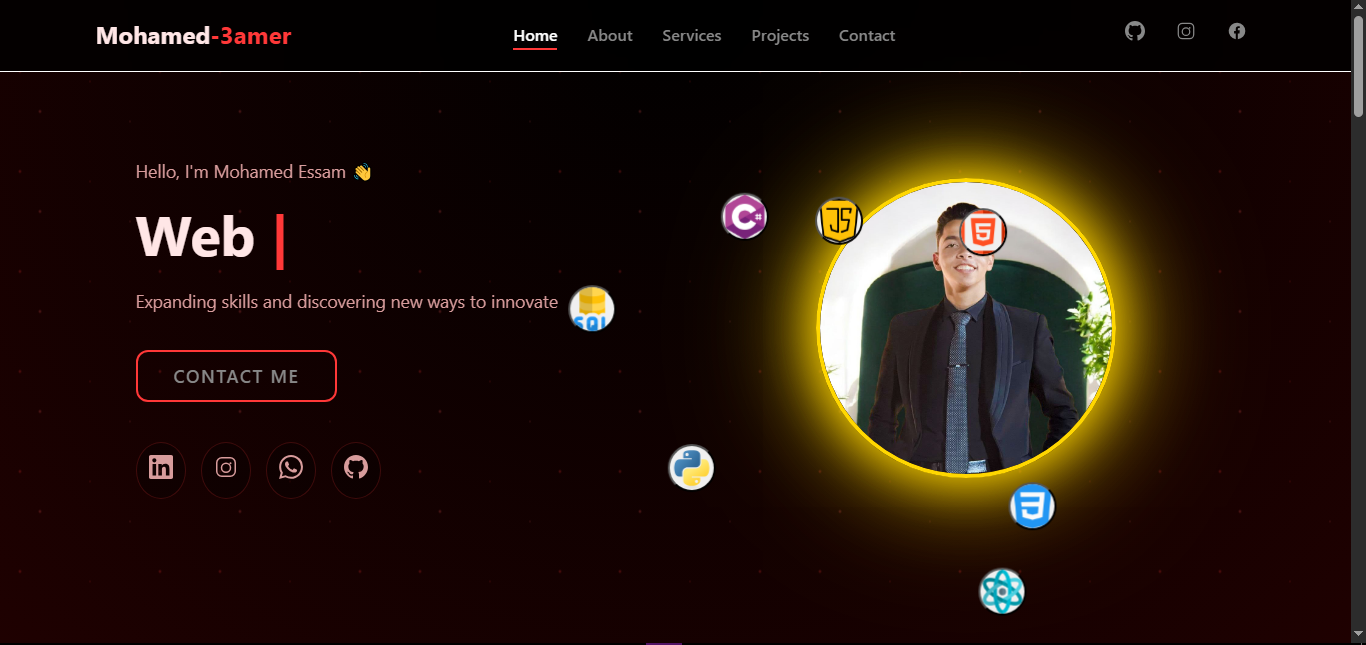
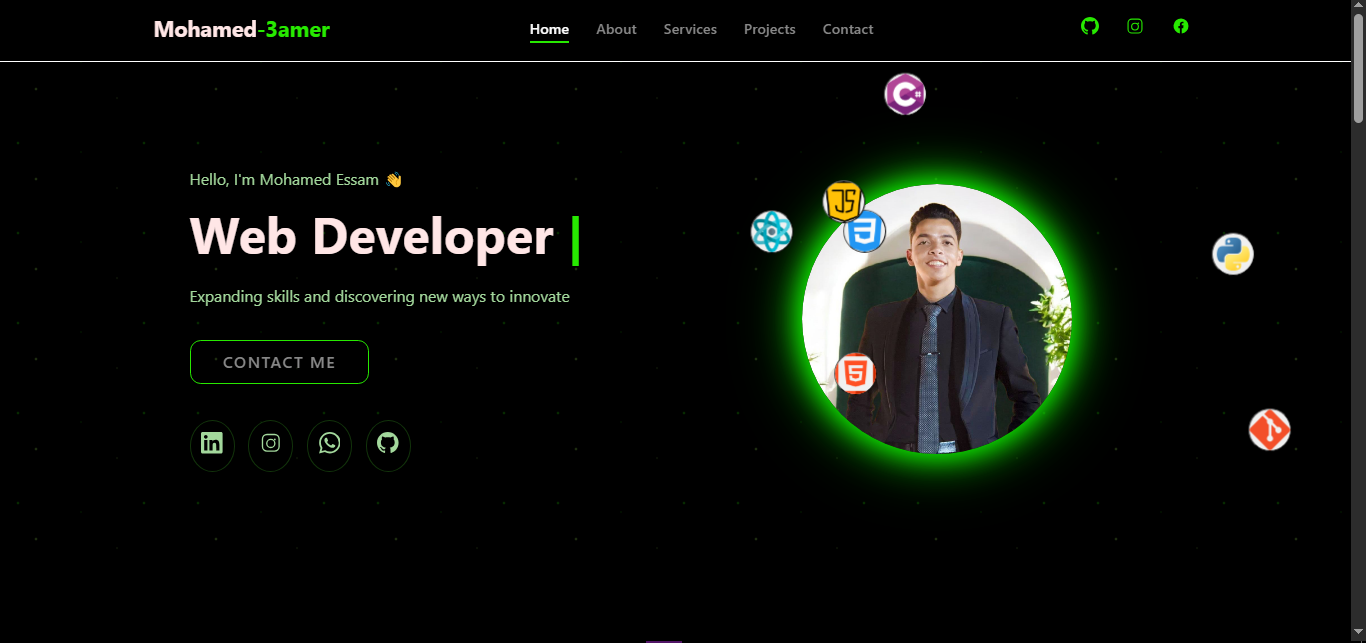
Add files via upload

diff --git a/style.css b/style.css
@@ -1,14 +1,14 @@
 @import url('https://fonts.googleapis.com/css?family=Muli&display=swap');
 :root {
-  --bg-1: #1f0101;
+  --bg-1: #000000;
   --bg-2: #000000;
   --text: #FFE6E6;
-  --muted: #D89C9C;
-  --accent: #FF3838;
-  --accent-2: #FF5C5C;
-  --card: #3b0202;
+  --muted: #a3d89c;
+  --accent: #27e900;
+  --accent-2: #abff5c;
+  --card: #0b3b02;
   --card-2: #ffffff;
-  --shadow: 0 10px 30px rgba(255, 56, 56, 0.15);
+  --shadow: 0 10px 30px rgba(136, 255, 56, 0.15);
 }
 
 * {
@@ -171,7 +171,7 @@ body::after {
 }
 
 .social-icon {
-  color: #888888; /* grey color for non-hover state */
+  color: #27e900; /* grey color for non-hover state */
   transition: all 0.3s ease;
   padding: 8px;
   border-radius: 50%;
@@ -180,7 +180,7 @@ body::after {
 .social-icon:hover {
   color: white;
   transform: scale(1.1);
-  box-shadow: 0 0 15px rgba(255, 255, 255, 0.3);
+  box-shadow: 0 0 15px rgba(9, 255, 0, 0.788);
 }
 
 .hamburger {
@@ -302,19 +302,19 @@ body::after {
 
 /* Matahari (Sun) - Elemento visual */
 .sun-core {
-  width: 300px; /* 40% larger than 120px */
-  height: 300px; /* 40% larger than 120px */
+  width: 60%; /* 40% larger than 120px */
+  height: 60%; /* 40% larger than 120px */
   border-radius: 50%;
   position: absolute;
   top: 50%;
   left: 50%;
   transform: translate(-50%, -50%);
-  border: 4px solid #FFD700;
+  /* border: 5px solid #27e900; */
   box-shadow:
-    0 0 40px rgba(255, 215, 0, 0.8),
-    0 0 80px rgba(255, 215, 0, 0.5),
-    0 0 120px rgba(255, 215, 0, 0.3),
-    inset 0 0 30px rgba(255, 215, 0, 0.4);
+      0 0 20px rgba(102, 255, 0, 0.8),
+      0 0 50px rgba(21, 255, 0, 0.5),
+      0 0 80px rgba(9, 255, 0, 0.3),
+      inset 0 0 30px rgba(21, 255, 0, 0.4);
   animation: sunGlow 3s ease-in-out infinite alternate;
   cursor: pointer;
   transition: transform 0.3s ease;
@@ -356,25 +356,25 @@ body::after {
 }
 
 .orbit-icon:hover {
-  background: rgba(255, 56, 56, 0.4);
+  background: rgba(96, 255, 56, 0.4);
   transform: scale(1.2);
-  box-shadow: 0 0 10px rgba(255, 56, 56, 0.5);
+  box-shadow: 0 0 10px rgba(96, 255, 56, 0.5);
 }
 
 @keyframes sunGlow {
   0% {
     box-shadow:
-      0 0 40px rgba(255, 215, 0, 0.8),
-      0 0 80px rgba(255, 215, 0, 0.5),
-      0 0 120px rgba(255, 215, 0, 0.3),
-      inset 0 0 30px rgba(255, 215, 0, 0.4);
+      0 0 20px rgba(0, 255, 0, 0.8),
+      0 0 50px rgba(21, 255, 0, 0.5),
+      0 0 80px rgba(30, 255, 0, 0.3),
+      inset 0 0 30px rgba(9, 255, 0, 0.4);
   }
   100% {
     box-shadow:
-      0 0 50px rgba(255, 215, 0, 1),
-      0 0 100px rgba(255, 215, 0, 0.7),
-      0 0 150px rgba(255, 215, 0, 0.4),
-      inset 0 0 40px rgba(255, 215, 0, 0.6);
+      0 0 30px rgb(9, 255, 0),
+      0 0 50px rgba(43, 255, 0, 0.7),
+      0 0 80px rgba(9, 255, 0, 0.4),
+      inset 0 0 40px rgba(30, 255, 0, 0.6);
   }
 }
 
@@ -499,7 +499,7 @@ body::after {
   left: -100%;
   width: 100%;
   height: 100%;
-  background: linear-gradient(45deg, var(--accent), var(--accent-2), #FF7F7F, #FF3838);
+  background: linear-gradient(45deg, var(--accent), var(--accent-2), #5ef837, #17ff02);
   background-size: 400% 400%;
   animation: glowGradient 4s ease infinite;
   opacity: 0;
@@ -509,7 +509,7 @@ body::after {
 .glow-genz-button:hover {
   color: white;
   border-color: var(--accent-2);
-  box-shadow: 0 0 25px rgba(255, 56, 56, 1), 0 0 50px rgba(255, 92, 92, 0.8);
+  box-shadow: 0 0 25px rgb(89, 255, 56), 0 0 50px rgba(119, 255, 92, 0.8);
   transform: scale(1.05);
 }
 
@@ -785,12 +785,12 @@ body::after {
 }
 
 .skill-tag {
-  background: rgba(255, 56, 56, 0.1);
+  background: rgba(112, 255, 56, 0.1);
   color: var(--accent);
   padding: 8px 16px;
   border-radius: 20px;
   font-size: 0.9rem;
-  border: 1px solid rgba(255, 56, 56, 0.3);
+  border: 1px solid rgba(119, 255, 56, 0.3);
   transition: all 0.3s ease;
 }
 
@@ -808,7 +808,7 @@ body::after {
 
 .code-animation {
   background: rgba(0, 0, 0, 0.5);
-  border: 1px solid rgba(255, 56, 56, 0.3);
+  border: 1px solid rgba(129, 255, 56, 0.3);
   border-radius: 12px;
   padding: 30px;
   font-family: 'Courier New', monospace;
@@ -834,7 +834,7 @@ body::after {
 
 .project-card {
   background: rgba(0, 0, 0, 0.3);
-  border: 1px solid rgba(255, 56, 56, 0.2);
+  border: 1px solid rgba(103, 255, 56, 0.2);
   border-radius: 12px;
   overflow: hidden;
   transition: all 0.3s ease;
@@ -843,7 +843,7 @@ body::after {
 
 .project-card:hover {
   transform: translateY(-10px);
-  box-shadow: 0 20px 40px rgba(255, 56, 56, 0.2);
+  box-shadow: 0 20px 40px rgba(103, 255, 56, 0.2);
   border-color: var(--accent);
 }
 
@@ -877,12 +877,12 @@ body::after {
 }
 
 .project-tech span {
-  background: rgba(255, 56, 56, 0.1);
+  background: rgba(96, 255, 56, 0.1);
   color: var(--accent);
   padding: 4px 12px;
   border-radius: 15px;
   font-size: 0.8rem;
-  border: 1px solid rgba(255, 56, 56, 0.3);
+  border: 1px solid rgba(103, 255, 56, 0.3);
 }
 
 .project-links {
@@ -950,18 +950,18 @@ body::after {
   padding: 12px;
   border-radius: 50%;
   background: rgba(0, 0, 0, 0.3);
-  border: 1px solid rgba(255, 56, 56, 0.2);
+  border: 1px solid rgba(89, 255, 56, 0.2);
 }
 
 .social-link:hover {
   color: var(--accent);
   transform: scale(1.1);
-  box-shadow: 0 0 20px rgba(255, 56, 56, 0.3);
+  box-shadow: 0 0 20px rgba(103, 255, 56, 0.3);
 }
 
 .contact-form {
   background: rgba(0, 0, 0, 0.3);
-  border: 1px solid rgba(255, 56, 56, 0.2);
+  border: 1px solid rgba(89, 255, 56, 0.2);
   border-radius: 12px;
   padding: 30px;
   backdrop-filter: blur(10px);
@@ -976,7 +976,7 @@ body::after {
   width: 100%;
   padding: 15px;
   background: rgba(0, 0, 0, 0.5);
-  border: 1px solid rgba(255, 56, 56, 0.3);
+  border: 1px solid rgba(103, 255, 56, 0.3);
   border-radius: 8px;
   color: var(--text);
   font-family: inherit;
@@ -987,7 +987,7 @@ body::after {
 .form-group textarea:focus {
   outline: none;
   border-color: var(--accent);
-  box-shadow: 0 0 10px rgba(255, 56, 56, 0.3);
+  box-shadow: 0 0 10px rgba(96, 255, 56, 0.3);
 }
 
 .form-group input::placeholder,
